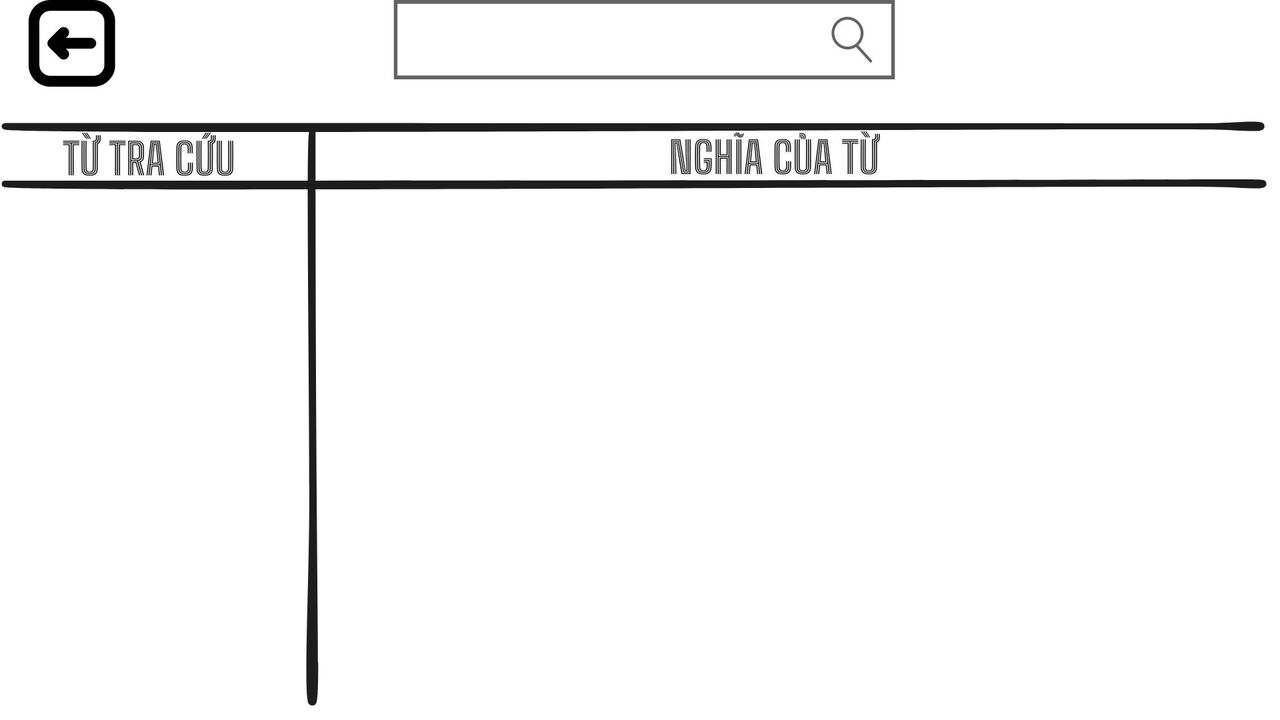
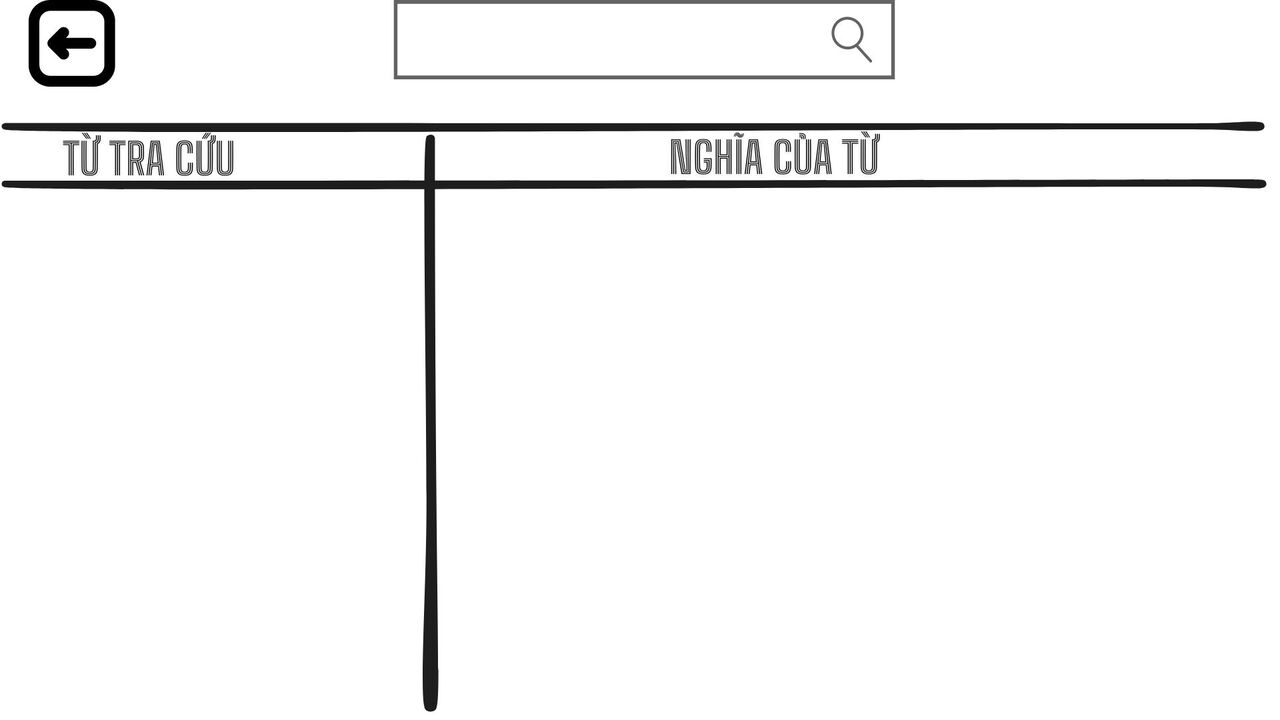
Final Release

Changed region(s): [[0.3125, 0.1833, 0.3438, 1.0], [0.2188, 0.1833, 0.25, 0.9778]]

diff --git a/Project1/main.cpp b/Project1/main.cpp
@@ -680,10 +680,10 @@ int main(int argc, char* args[])
 					}
 					if (choose.name != "") {
 						item.load(choose.name, textColor);
-						item.render(350, 192);
+						item.render(450, 192);
 						for (int i = 0; i < ChosenWord.size()-1; i++) {
 							content.specialLoad(ChosenWord[i], textColor);
-							content.render(350, 242 + i * 20);
+							content.render(450, 242 + i * 20);
 						}
 					}
 				}
